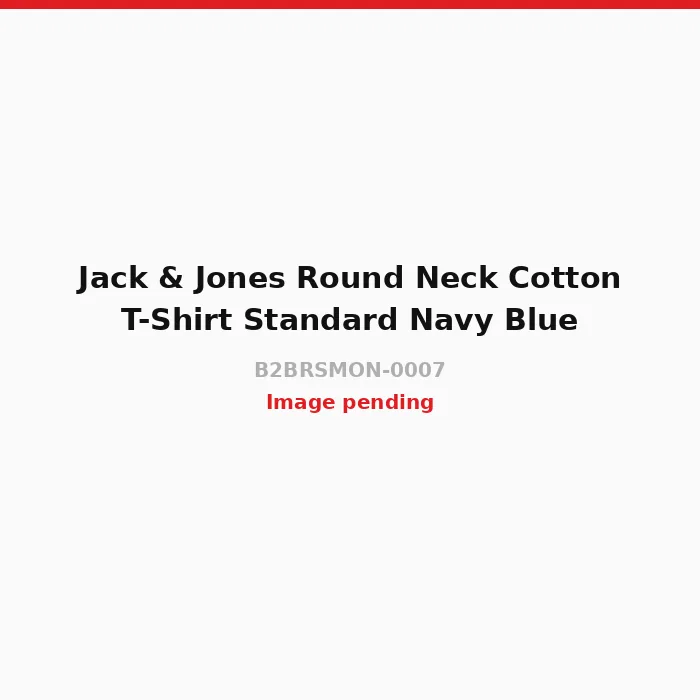
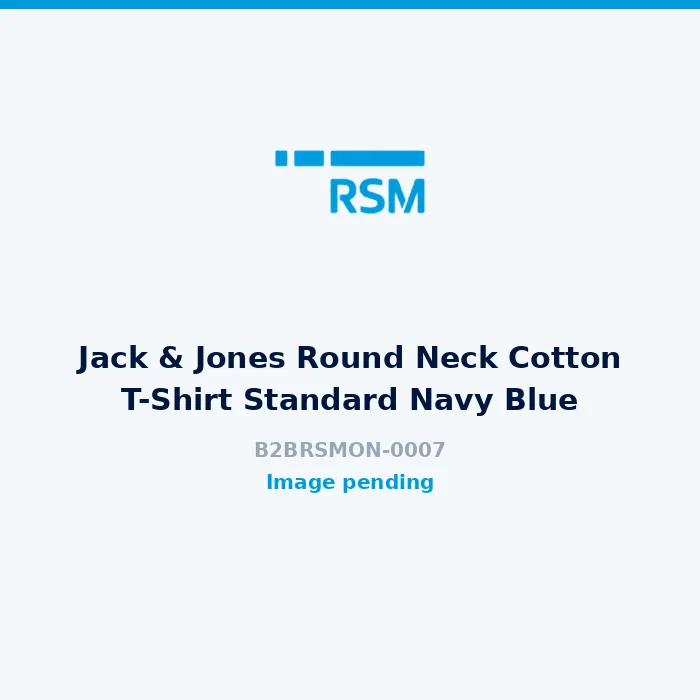
Rebrand to the RSM palette
Replaces the CompanyStore.IO Core 5 palette with RSM US's own:
Cerulean #009CDE, Midnight #00153D.

Cerulean corroborated two ways: RSM US's published brand value, and the
logo printed on RSM merchandise, sampled at #0A94D5 (hue 199-202) across
four product photos. No green in the mark; an apparent green pixel on a
low-res shirt photo was a JPEG artifact.

- assets/brand/: RSM mark lifted from the print on B2BRSMON-0162,
  red-channel matte, cerulean and white colourways
- Header and hero now carry the mark instead of a text lockup
- 8 placeholder tiles regenerated in RSM colours
- Approval, decision and closure emails recoloured (Mail.gs)
- Approver decision page recoloured (Api.gs)

Logo came off a photograph: swap for official vector artwork before go-live.

diff --git a/assets/css/app.css b/assets/css/app.css
@@ -1,16 +1,25 @@
-/* RSM Business Store. CompanyStore.IO Core 5 palette only:
-   #E01E23 red, #121212 black, #AFAFAF grey, #FAFAFA off-white, #FDF2F2 faded red. */
+/* RSM Business Store.
+   RSM US palette:
+     Cerulean  #009CDE  primary
+     Midnight  #00153D  ink and dark surfaces
+     White     #FFFFFF
+   Cerulean verified against the logo printed on RSM merchandise (sampled
+   #0A94D5, hue 199-202deg, across four product photos). Neutrals are cooled
+   towards Midnight so the greys sit with the blue rather than against it. */
 
 :root {
-  --red: #E01E23;
-  --black: #121212;
-  --grey: #AFAFAF;
-  --off: #FAFAFA;
-  --faint: #FDF2F2;
-  --line: #E6E6E6;
-  --muted: #6B6B6B;
+  --brand: #009CDE;
+  --brand-dark: #007FB5;
+  --brand-deep: #005E86;
+  --ink: #00153D;
+  --ink-soft: #17305B;
+  --grey: #9AA6B8;
+  --off: #F4F8FB;
+  --tint: #E4F3FC;
+  --line: #DCE5EE;
+  --muted: #5B6A80;
   --radius: 10px;
-  --shadow: 0 1px 3px rgba(18, 18, 18, .06), 0 8px 24px rgba(18, 18, 18, .05);
+  --shadow: 0 1px 3px rgba(0, 21, 61, .07), 0 8px 24px rgba(0, 21, 61, .06);
 }
 
 * { box-sizing: border-box; }
@@ -20,7 +29,7 @@ html { -webkit-text-size-adjust: 100%; }
 body {
   margin: 0;
   font-family: Manrope, -apple-system, BlinkMacSystemFont, 'Segoe UI', sans-serif;
-  color: var(--black);
+  color: var(--ink);
   background: #fff;
   font-size: 15px;
   line-height: 1.55;
@@ -31,8 +40,8 @@ body {
 
 main { flex: 1; }
 
-a { color: var(--black); text-decoration: none; }
-a:hover { color: var(--red); }
+a { color: var(--ink); text-decoration: none; }
+a:hover { color: var(--brand); }
 
 h1, h2, h3, h4 { margin: 0 0 .5rem; font-weight: 800; letter-spacing: -.02em; line-height: 1.2; }
 h1 { font-size: 2rem; }
@@ -63,41 +72,34 @@ h3 { font-size: 1.05rem; }
 
 .head-inner { display: flex; align-items: center; gap: 28px; height: 68px; }
 
-.brand { display: flex; align-items: baseline; gap: 9px; }
-.brand-mark {
-  font-weight: 800;
-  font-size: 1.4rem;
-  letter-spacing: -.03em;
-  color: var(--black);
-  border-left: 4px solid var(--red);
-  padding-left: 9px;
-}
+.brand { display: flex; align-items: center; gap: 11px; }
+.brand-logo { height: 26px; width: auto; display: block; }
 .brand-sub { font-size: .78rem; color: var(--muted); font-weight: 600; text-transform: uppercase; letter-spacing: .08em; }
 
 .nav { display: flex; gap: 22px; flex: 1; }
 .nav a { font-weight: 600; font-size: .92rem; padding: 6px 0; border-bottom: 2px solid transparent; }
-.nav a.on, .nav a:hover { border-bottom-color: var(--red); color: var(--black); }
+.nav a.on, .nav a:hover { border-bottom-color: var(--brand); color: var(--ink); }
 
 .head-right { display: flex; align-items: center; gap: 18px; }
 .who { display: flex; align-items: center; gap: 12px; }
 .who-name { font-size: .85rem; font-weight: 600; }
 .link-quiet { font-size: .85rem; color: var(--muted); font-weight: 600; }
-.link-quiet:hover { color: var(--red); }
+.link-quiet:hover { color: var(--brand); }
 
 .cart-btn {
   display: inline-flex; align-items: center; gap: 8px;
-  background: var(--black); color: #fff;
+  background: var(--ink); color: #fff;
   padding: 9px 16px; border-radius: var(--radius);
   font-weight: 700; font-size: .85rem;
 }
-.cart-btn:hover { background: var(--red); color: #fff; }
+.cart-btn:hover { background: var(--brand); color: #fff; }
 .pill {
-  background: var(--red); color: #fff; border-radius: 999px;
+  background: var(--brand); color: #fff; border-radius: 999px;
   min-width: 20px; height: 20px; padding: 0 6px;
   display: inline-flex; align-items: center; justify-content: center;
   font-size: .72rem; font-weight: 800;
 }
-.cart-btn .pill { background: #fff; color: var(--black); }
+.cart-btn .pill { background: var(--brand); color: #fff; }
 
 /* ------------------------------------------------------------------ footer */
 
@@ -106,17 +108,18 @@ h3 { font-size: 1.05rem; }
 
 /* -------------------------------------------------------------------- hero */
 
-.hero { background: var(--black); color: #fff; padding: 56px 0; }
+.hero { background: var(--ink); color: #fff; padding: 52px 0 56px; }
 .hero h1 { color: #fff; font-size: 2.4rem; max-width: 640px; }
 .hero p { color: var(--grey); max-width: 560px; margin: 0; }
-.hero .bar { width: 56px; height: 4px; background: var(--red); margin-bottom: 20px; }
+.hero .bar { width: 56px; height: 4px; background: var(--brand); margin-bottom: 20px; }
+.hero-logo { height: 40px; width: auto; display: block; margin-bottom: 22px; }
 
 .cat-grid { display: grid; grid-template-columns: repeat(4, 1fr); gap: 16px; margin: 32px 0; }
 .cat-card {
   border: 1px solid var(--line); border-radius: var(--radius);
   padding: 20px; background: #fff; transition: .15s;
 }
-.cat-card:hover { border-color: var(--red); box-shadow: var(--shadow); }
+.cat-card:hover { border-color: var(--brand); box-shadow: var(--shadow); }
 .cat-card h3 { margin-bottom: 2px; }
 .cat-card .small { color: var(--muted); }
 
@@ -145,7 +148,7 @@ h3 { font-size: 1.05rem; }
 .card-moq { font-size: .74rem; color: var(--muted); font-weight: 600; }
 
 .tag {
-  display: inline-block; align-self: flex-start; background: var(--faint); color: var(--red);
+  display: inline-block; align-self: flex-start; background: var(--tint); color: var(--brand);
   border-radius: 4px; padding: 2px 7px; font-size: .68rem;
   font-weight: 800; letter-spacing: .05em; text-transform: uppercase;
 }
@@ -164,49 +167,49 @@ h3 { font-size: 1.05rem; }
 .tier-table { width: 100%; border-collapse: collapse; font-size: .88rem; margin-top: 8px; }
 .tier-table th { text-align: left; font-size: .7rem; text-transform: uppercase; letter-spacing: .06em; color: var(--muted); padding: 8px 10px; border-bottom: 1px solid var(--line); }
 .tier-table td { padding: 9px 10px; border-bottom: 1px solid var(--line); }
-.tier-table tr.on { background: var(--faint); }
+.tier-table tr.on { background: var(--tint); }
 .tier-table tr.on td { font-weight: 800; }
-.tier-table tr.on td:first-child::before { content: '▸ '; color: var(--red); }
+.tier-table tr.on td:first-child::before { content: '▸ '; color: var(--brand); }
 
 .size-grid { display: flex; flex-wrap: wrap; gap: 8px; }
 .size-box {
   border: 1px solid var(--line); border-radius: 8px; padding: 8px;
   width: 74px; text-align: center;
 }
-.size-box.has { border-color: var(--black); }
+.size-box.has { border-color: var(--ink); }
 .size-box label { display: block; font-weight: 800; font-size: .78rem; margin-bottom: 5px; }
 .size-box input { width: 100%; border: 0; text-align: center; font-family: inherit; font-weight: 700; font-size: .9rem; padding: 3px 0; background: var(--off); border-radius: 5px; }
-.size-box input:focus { outline: 2px solid var(--red); }
+.size-box input:focus { outline: 2px solid var(--brand); }
 
 /* ------------------------------------------------------------------ inputs */
 
 .btn {
   display: inline-flex; align-items: center; justify-content: center; gap: 8px;
-  background: var(--red); color: #fff; border: 0;
+  background: var(--brand); color: #fff; border: 0;
   padding: 12px 22px; border-radius: var(--radius);
   font-family: inherit; font-weight: 700; font-size: .92rem; cursor: pointer;
   transition: .15s;
 }
-.btn:hover { background: #b8171b; color: #fff; }
+.btn:hover { background: var(--brand-dark); color: #fff; }
 .btn:disabled { background: var(--grey); cursor: not-allowed; }
-.btn-dark { background: var(--black); }
-.btn-dark:hover { background: #000; }
-.btn-ghost { background: #fff; color: var(--black); border: 1px solid var(--line); }
-.btn-ghost:hover { background: var(--off); color: var(--black); border-color: var(--grey); }
+.btn-dark { background: var(--ink); }
+.btn-dark:hover { background: var(--ink-soft); }
+.btn-ghost { background: #fff; color: var(--ink); border: 1px solid var(--line); }
+.btn-ghost:hover { background: var(--off); color: var(--ink); border-color: var(--grey); }
 .btn-sm { padding: 7px 13px; font-size: .8rem; }
 .btn-block { width: 100%; }
 
 label.field { display: block; margin-bottom: 14px; }
 label.field > span { display: block; font-size: .78rem; font-weight: 700; margin-bottom: 5px; text-transform: uppercase; letter-spacing: .04em; color: var(--muted); }
-label.field > span .req { color: var(--red); }
+label.field > span .req { color: var(--brand); }
 
 input[type=text], input[type=email], input[type=password], input[type=tel],
 input[type=number], input[type=date], select, textarea {
   width: 100%; padding: 10px 12px;
   border: 1px solid var(--line); border-radius: 8px;
-  font-family: inherit; font-size: .92rem; background: #fff; color: var(--black);
+  font-family: inherit; font-size: .92rem; background: #fff; color: var(--ink);
 }
-input:focus, select:focus, textarea:focus { outline: 0; border-color: var(--red); box-shadow: 0 0 0 3px var(--faint); }
+input:focus, select:focus, textarea:focus { outline: 0; border-color: var(--brand); box-shadow: 0 0 0 3px var(--tint); }
 textarea { min-height: 92px; resize: vertical; }
 input[type=file] { font-size: .85rem; }
 
@@ -219,13 +222,13 @@ input[type=file] { font-size: .85rem; }
 .panel + .panel { margin-top: 18px; }
 .panel h2 { font-size: 1.05rem; margin-bottom: 14px; padding-bottom: 10px; border-bottom: 1px solid var(--line); }
 
-.note { background: var(--faint); border-left: 3px solid var(--red); padding: 12px 14px; border-radius: 0 8px 8px 0; font-size: .87rem; }
+.note { background: var(--tint); border-left: 3px solid var(--brand); padding: 12px 14px; border-radius: 0 8px 8px 0; font-size: .87rem; }
 .note-quiet { background: var(--off); border-left-color: var(--grey); }
 
 .totals { width: 100%; border-collapse: collapse; }
 .totals td { padding: 7px 0; }
 .totals td:last-child { text-align: right; font-variant-numeric: tabular-nums; font-weight: 600; }
-.totals tr.grand td { border-top: 2px solid var(--black); padding-top: 12px; font-size: 1.2rem; font-weight: 800; }
+.totals tr.grand td { border-top: 2px solid var(--ink); padding-top: 12px; font-size: 1.2rem; font-weight: 800; }
 
 /* ------------------------------------------------------------------- table */
 
@@ -244,28 +247,28 @@ input[type=file] { font-size: .85rem; }
   font-size: .72rem; font-weight: 800; text-transform: uppercase; letter-spacing: .04em;
   background: var(--off); color: var(--muted); border: 1px solid var(--line);
 }
-.status.pending { background: var(--faint); color: var(--red); border-color: #F5C6C7; }
-.status.approved { background: var(--black); color: #fff; border-color: var(--black); }
-.status.rejected { background: var(--red); color: #fff; border-color: var(--red); }
-.status.closed { background: var(--off); color: var(--black); border-color: var(--grey); }
+.status.pending { background: var(--tint); color: var(--brand); border-color: #B6E1F7; }
+.status.approved { background: var(--ink); color: #fff; border-color: var(--ink); }
+.status.rejected { background: var(--brand); color: #fff; border-color: var(--brand); }
+.status.closed { background: var(--off); color: var(--ink); border-color: var(--grey); }
 
 /* ------------------------------------------------------------------- toast */
 
 .toast {
   position: fixed; left: 50%; bottom: 28px; transform: translate(-50%, 20px);
-  background: var(--black); color: #fff; padding: 13px 20px;
+  background: var(--ink); color: #fff; padding: 13px 20px;
   border-radius: var(--radius); font-weight: 600; font-size: .88rem;
   opacity: 0; transition: .25s; z-index: 100; max-width: 90vw;
   box-shadow: 0 8px 30px rgba(0, 0, 0, .25);
 }
 .toast.show { opacity: 1; transform: translate(-50%, 0); }
-.toast-error { background: var(--red); }
+.toast-error { background: var(--brand); }
 
 /* -------------------------------------------------------------------- misc */
 
 .crumbs { font-size: .8rem; color: var(--muted); margin: 20px 0 6px; font-weight: 600; }
 .crumbs a { color: var(--muted); }
-.crumbs a:hover { color: var(--red); }
+.crumbs a:hover { color: var(--brand); }
 
 .page-head { margin: 8px 0 24px; padding-bottom: 16px; border-bottom: 1px solid var(--line); }
 
@@ -273,22 +276,22 @@ input[type=file] { font-size: .85rem; }
 .chip {
   border: 1px solid var(--line); background: #fff; border-radius: 999px;
   padding: 6px 15px; font-size: .82rem; font-weight: 600; cursor: pointer;
-  font-family: inherit; color: var(--black);
+  font-family: inherit; color: var(--ink);
 }
-.chip.on { background: var(--black); color: #fff; border-color: var(--black); }
-.chip:hover:not(.on) { border-color: var(--red); color: var(--red); }
+.chip.on { background: var(--ink); color: #fff; border-color: var(--ink); }
+.chip:hover:not(.on) { border-color: var(--brand); color: var(--brand); }
 
 .narrow { max-width: 460px; margin: 56px auto; }
 .mid { max-width: 780px; margin: 0 auto; }
 
 .empty { text-align: center; padding: 72px 20px; color: var(--muted); }
-.empty h2 { color: var(--black); }
+.empty h2 { color: var(--ink); }
 
 .drop {
   border: 2px dashed var(--line); border-radius: var(--radius);
   padding: 26px; text-align: center; cursor: pointer; background: var(--off);
 }
-.drop:hover, .drop.over { border-color: var(--red); background: var(--faint); }
+.drop:hover, .drop.over { border-color: var(--brand); background: var(--tint); }
 .file-row { display: flex; align-items: center; gap: 10px; padding: 8px 0; border-bottom: 1px solid var(--line); font-size: .85rem; }
 
 @media (max-width: 900px) {

diff --git a/product.html b/product.html
@@ -145,7 +145,7 @@ function paint() {
     hint.classList.add('muted');
     btn.disabled = true;
   } else if (total < P.moq) {
-    hint.innerHTML = `<strong style="color:#E01E23">Add ${qty(P.moq - total)} more.</strong> The minimum order quantity is ${qty(P.moq)}.`;
+    hint.innerHTML = `<strong style="color:#00153D">Add ${qty(P.moq - total)} more.</strong> The minimum order quantity is ${qty(P.moq)}.`;
     btn.disabled = true;
   } else if (next) {
     hint.innerHTML = `Add <strong>${qty(next.min_qty - total)}</strong> more to reach ${money(next.unit_price)} each.`;

diff --git a/status.html b/status.html
@@ -93,7 +93,7 @@ function render(o, lines, files) {
         : el('div', { class: 'row', style: 'margin-top:16px;gap:0' },
             steps.map((s, i) => el('div', { style: 'flex:1;text-align:center' },
               el('div', {
-                style: 'height:4px;background:' + (i <= at ? '#E01E23' : '#E6E6E6'),
+                style: 'height:4px;background:' + (i <= at ? '#009CDE' : '#DCE5EE'),
               }),
               el('div', { class: 'small', style: 'margin-top:6px;font-weight:' + (i <= at ? '800' : '400') }, s)))),
 

diff --git a/assets/js/app.js b/assets/js/app.js
@@ -227,7 +227,7 @@ function header(active) {
   return el('header', { class: 'site-head' },
     el('div', { class: 'wrap head-inner' },
       el('a', { class: 'brand', href: 'index.html' },
-        el('span', { class: 'brand-mark' }, 'RSM'),
+        el('img', { class: 'brand-logo', src: 'assets/brand/rsm-logo.png', alt: 'RSM' }),
         el('span', { class: 'brand-sub' }, 'Business Store')),
       el('nav', { class: 'nav' },
         ['Apparel', 'Drinkware', 'Travel', 'Utilities'].map(c =>

diff --git a/index.html b/index.html
@@ -14,7 +14,7 @@
 <main>
   <section class="hero">
     <div class="wrap">
-      <div class="bar"></div>
+      <img class="hero-logo" src="assets/brand/rsm-logo-white.png" alt="RSM">
       <h1>RSM branded merchandise</h1>
       <p>Browse the approved catalogue. Sign in at checkout to raise an order for approval.</p>
     </div>

diff --git a/tools/optimise_images.py b/tools/optimise_images.py
@@ -6,7 +6,7 @@ from PIL import Image, ImageDraw, ImageFont
 
 ROOT = "/home/claude/rsm-b2b"
 OUT = f"{ROOT}/assets/products"
-RED, BLACK, GREY, OFFWHITE = "#E01E23", "#121212", "#AFAFAF", "#FAFAFA"
+CERULEAN, MIDNIGHT, GREY, OFFWHITE = "#009CDE", "#00153D", "#9AA6B8", "#F4F8FB"
 
 cat = json.load(open(f"{ROOT}/assets/products.json"))
 before = sum(os.path.getsize(f) for f in glob.glob(f"{OUT}/*"))
@@ -46,16 +46,16 @@ for p in cat["products"]:
         # branded placeholder, Core 5 palette
         im = Image.new("RGB", (700, 700), OFFWHITE)
         d = ImageDraw.Draw(im)
-        d.rectangle([0, 0, 700, 8], fill=RED)
+        d.rectangle([0, 0, 700, 8], fill=CERULEAN)
         f1, f2 = font(30), font(20)
         lines = wrap(d, p["name"], f1, 560)
         y = 300 - (len(lines) * 20)
         for ln in lines:
-            d.text((350 - d.textlength(ln, font=f1) / 2, y), ln, font=f1, fill=BLACK)
+            d.text((350 - d.textlength(ln, font=f1) / 2, y), ln, font=f1, fill=MIDNIGHT)
             y += 42
         d.text((350 - d.textlength(sku, font=f2) / 2, y + 14), sku, font=f2, fill=GREY)
         note = "Image pending"
-        d.text((350 - d.textlength(note, font=f2) / 2, y + 46), note, font=f2, fill=RED)
+        d.text((350 - d.textlength(note, font=f2) / 2, y + 46), note, font=f2, fill=CERULEAN)
         im.save(dest, "WEBP", quality=82, method=6)
         made += 1
     p["image"] = f"assets/products/{sku}.webp"

diff --git a/README.md b/README.md
@@ -20,9 +20,10 @@ checkout.html   gated: requester, context, evidence upload, addresses
 status.html     requester order lookup and tracking
 admin.html      CompanyStore.IO console: list, drawer, close with tracking
 
+assets/brand/            the RSM mark, extracted from RSM merchandise
 assets/products.json     the entire catalogue, 134 products (build artifact)
 assets/products/*.webp   134 images, 0.6 MB total
-assets/css/app.css       Core 5 palette only
+assets/css/app.css       RSM palette, all tokens in :root
 assets/js/app.js         cart, pricing engine, API client, page chrome
 
 apps-script/    the backend. Config, Auth, Orders, Mail, Api, Setup
@@ -73,6 +74,38 @@ To load the real numbers, replace `sheet-seed/PriceTiers.csv` and the `moq` and
 ```
 python3 tools/build_catalog.py
 ```
+
+---
+
+## Brand
+
+RSM US palette, not CompanyStore.IO Core 5.
+
+| Token | Value | Use |
+|---|---|---|
+| Cerulean | `#009CDE` | primary actions, accents, active states |
+| Midnight | `#00153D` | body text, hero, dark surfaces |
+| White | `#FFFFFF` | surfaces |
+| Tint | `#E4F3FC` | callouts, active tier row |
+| Off | `#F4F8FB` | page and image backgrounds |
+| Line | `#DCE5EE` | borders |
+| Grey / Muted | `#9AA6B8` / `#5B6A80` | secondary text |
+
+Cerulean and Midnight are RSM US's own brand values. Cerulean was independently
+confirmed against the logo printed on RSM merchandise: sampled at `#0A94D5`,
+hue 199-202 degrees, across four product photos. There is no green in the RSM
+mark; an apparent green pixel on a low-resolution shirt photo turned out to be a
+JPEG artifact, checked and discarded.
+
+`assets/brand/rsm-logo.png` (Cerulean) and `rsm-logo-white.png` were lifted from
+the mark printed on `B2BRSMON-0162`, matted on the red channel and cropped inside
+the disc. They are the real trademark, not a redrawing, but they came off a
+photograph, so **replace them with the official vector artwork before go-live.**
+The original sits at `/media/logo/stores/12/logo_2x.png` on the Magento server,
+which was offline when this was built.
+
+Colours live in one place, `:root` in `assets/css/app.css`. The approval and
+decision emails carry their own copy in `apps-script/Mail.gs`; change both.
 
 ---
 
